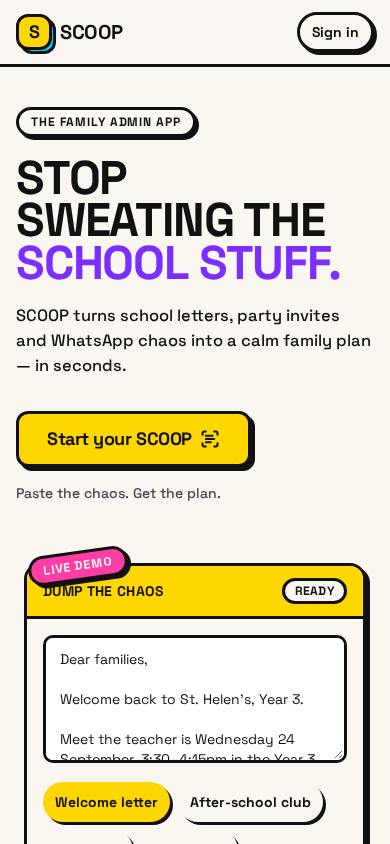
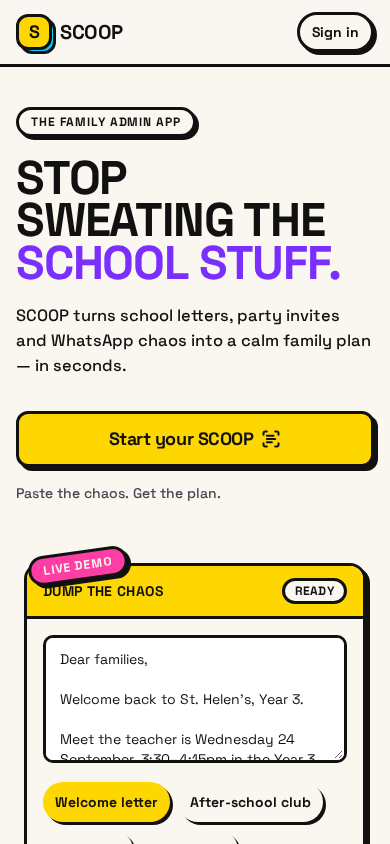
fixed start with scoop button

Changed region(s): [[0.1231, 0.4621, 0.9846, 0.5853]]

diff --git a/src/routes/index.tsx b/src/routes/index.tsx
@@ -50,12 +50,12 @@ const FEATURES = [
 ];
 
 function Home() {
-  const { user, isPending } = useCurrentUserState();
+  const { user } = useCurrentUserState();
   if (user) return <Navigate to="/capture" />;
-  return <Landing pending={isPending} />;
+  return <Landing />;
 }
 
-function Landing({ pending = false }: { pending?: boolean }) {
+function Landing() {
   return (
     <div className="min-h-dvh bg-paper">
       <header className="sticky top-0 z-40 border-b-thick border-ink bg-paper/95 backdrop-blur-sm">
@@ -63,11 +63,7 @@ function Landing({ pending = false }: { pending?: boolean }) {
           <Link to="/" aria-label="SCOOP">
             <Wordmark />
           </Link>
-          {pending ? (
-            <div className="h-10 w-24 animate-pulse rounded-xl border-thick border-ink bg-paper-2" />
-          ) : (
-            <AccountMenu showSignup={false} />
-          )}
+          <AccountMenu showSignup={false} />
         </div>
       </header>
 
@@ -93,7 +89,7 @@ function Landing({ pending = false }: { pending?: boolean }) {
                 SCOOP turns school letters, party invites and WhatsApp chaos into
                 a calm family plan — in seconds.
               </p>
-              <Button asChild size="lg" variant="yolk" className="mt-8">
+              <Button asChild size="lg" variant="yolk" className="mt-8 w-full sm:w-auto">
                 <Link to="/signup">
                   Start your SCOOP
                   <ScanText className="size-5" strokeWidth={2.4} />

diff --git a/src/components/account-menu.tsx b/src/components/account-menu.tsx
@@ -32,7 +32,7 @@ function Avatar({
 }
 
 export function AccountMenu({ showSignup = true }: { showSignup?: boolean }) {
-  const { user, isPending } = useCurrentUserState();
+  const { user } = useCurrentUserState();
   const liveUser = useCurrentUser();
   const [signingOut, setSigningOut] = useState(false);
   const gateSession = useSyncExternalStore(
@@ -40,12 +40,6 @@ export function AccountMenu({ showSignup = true }: { showSignup?: boolean }) {
     hasGateSessionMarker,
     noGateSessionOnServer,
   );
-
-  if (isPending) {
-    return (
-      <div className="h-10 w-24 animate-pulse rounded-full border-thick border-ink bg-paper-2 sm:w-28" />
-    );
-  }
 
   if (!user) {
     return (

diff --git a/src/routes/signup.tsx b/src/routes/signup.tsx
@@ -5,16 +5,7 @@ import { useCurrentUserState } from "@/lib/auth/use-current-user";
 export const Route = createFileRoute("/signup")({ component: Signup });
 
 function Signup() {
-  const { user, isPending } = useCurrentUserState();
-  if (isPending) {
-    return (
-      <main className="flex min-h-dvh items-center justify-center bg-paper px-4 py-10">
-        <p className="font-display text-xl font-black uppercase tracking-tight">
-          Loading SCOOP…
-        </p>
-      </main>
-    );
-  }
+  const { user } = useCurrentUserState();
   if (user) return <Navigate to="/capture" />;
   return (
     <main className="flex min-h-dvh items-center justify-center bg-paper px-4 py-10">

diff --git a/src/routes/login.tsx b/src/routes/login.tsx
@@ -5,16 +5,7 @@ import { useCurrentUserState } from "@/lib/auth/use-current-user";
 export const Route = createFileRoute("/login")({ component: Login });
 
 function Login() {
-  const { user, isPending } = useCurrentUserState();
-  if (isPending) {
-    return (
-      <main className="flex min-h-dvh items-center justify-center bg-paper px-4 py-10">
-        <p className="font-display text-xl font-black uppercase tracking-tight">
-          Loading SCOOP…
-        </p>
-      </main>
-    );
-  }
+  const { user } = useCurrentUserState();
   if (user) return <Navigate to="/capture" />;
   return (
     <main className="flex min-h-dvh items-center justify-center bg-paper px-4 py-10">
